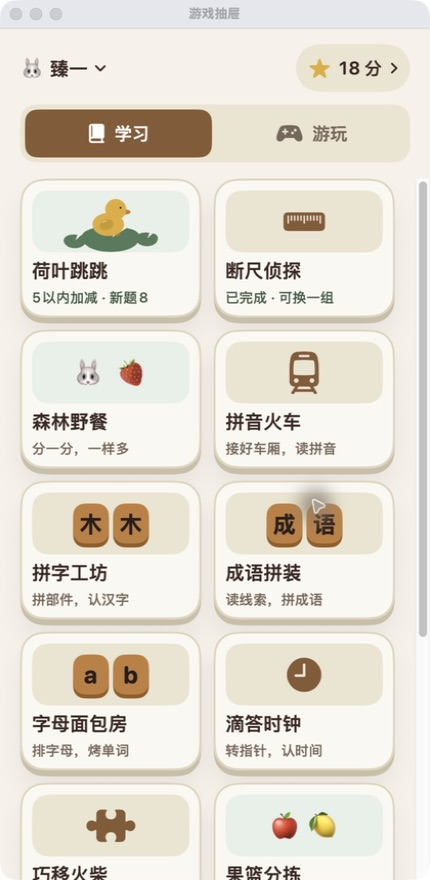
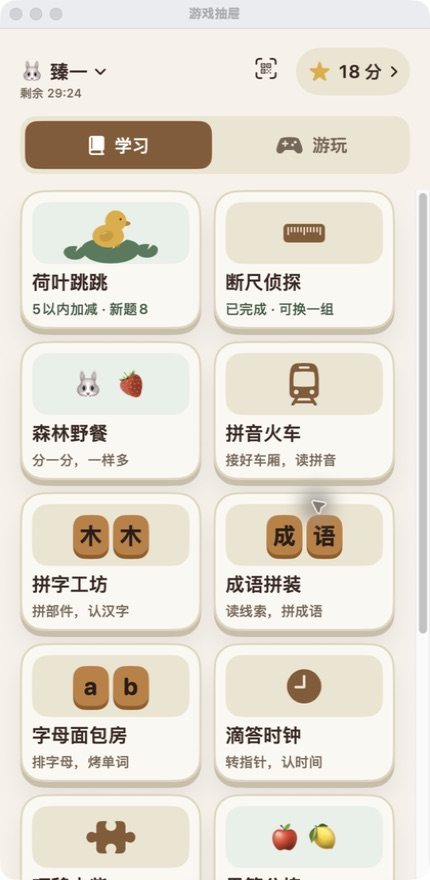
Limit each child to 30 minutes followed by a two-hour rest

diff --git a/ios/LittleLearning/Checks/StoreChecks/UsageStoreChecks.swift b/ios/LittleLearning/Checks/StoreChecks/UsageStoreChecks.swift
@@ -1,0 +1,74 @@
+import Foundation
+
+enum UsageStoreChecks {
+    @MainActor static func run(root: URL) throws {
+        let budget=UsageAllowance.budgetMilliseconds
+        var date=Date(timeIntervalSince1970:1_700_000_000),clock=1000.0
+        func advance(_ seconds: Double) { date=date.addingTimeInterval(seconds);clock += seconds }
+        let file=root.appendingPathComponent("usage.json")
+        let store=UsageStore(fileURL:file,date:{date},uptime:{clock})
+        precondition(store.remaining(.qianyi) == budget && store.remaining(.zhenyi) == budget)
+        store.updateContext(child:nil,active:true)
+        advance(600);store.tick();precondition(store.remaining(.qianyi) == budget) // Picker is free.
+        store.updateContext(child:.qianyi,active:true)
+        advance(599.25);store.tick()
+        store.updateContext(child:.qianyi,active:true) // Repeated view updates do not reset the clock.
+        advance(0.75);store.updateContext(child:.qianyi,active:false)
+        precondition(store.remaining(.qianyi) == budget-600_000)
+        advance(10_800);store.tick() // Background hours do not replenish a partial allowance.
+        precondition(store.remaining(.qianyi) == budget-600_000)
+        let restarted=UsageStore(fileURL:file,date:{date},uptime:{clock})
+        precondition(restarted.remaining(.qianyi) == budget-600_000)
+        restarted.updateContext(child:.qianyi,active:true)
+        advance(1200);restarted.tick()
+        precondition(restarted.isBlocked && restarted.remaining(.qianyi) == 0 && restarted.restLabel(.qianyi) == "2:00:00")
+        let exhausted=try Data(contentsOf:file)
+        // Rest survives closing, switching, relaunch, and the passage of midnight.
+        restarted.updateContext(child:nil,active:true)
+        advance(60);restarted.tick()
+        restarted.updateContext(child:.qianyi,active:true)
+        precondition(restarted.isBlocked && restarted.restLabel(.qianyi) == "1:59:00")
+        restarted.updateContext(child:.zhenyi,active:true)
+        advance(120);restarted.tick()
+        precondition(!restarted.isBlocked && restarted.remaining(.zhenyi) == budget-120_000)
+        restarted.updateContext(child:.zhenyi,active:false)
+        advance(7019)
+        let resting=UsageStore(fileURL:file,date:{date},uptime:{clock})
+        resting.updateContext(child:.qianyi,active:true)
+        precondition(resting.isBlocked && resting.restLabel(.qianyi) == "0:00:01")
+        advance(1);resting.tick()
+        precondition(!resting.isBlocked && resting.remaining(.qianyi) == budget)
+        precondition(resting.remaining(.zhenyi) == budget-120_000)
+        advance(1.25);resting.updateContext(child:nil,active:true)
+        precondition(resting.remaining(.qianyi) == budget-1250)
+        let durable=UsageStore(fileURL:file,date:{date},uptime:{clock})
+        precondition(durable.remaining(.qianyi) == budget-1250)
+        // A blocked UI delays a tick: start rest at exhaustion, not at the late callback.
+        var allowance=UsageAllowance();allowance.consume(budget+5000,endingAt:date)
+        precondition(allowance.restingSeconds(at:date) == 7195 && allowance.isValid)
+        allowance.refresh(at:date.addingTimeInterval(7195));precondition(allowance.remaining(at:date) == budget)
+        // Wall-clock movements never award foreground usage time; consumption uses uptime.
+        resting.updateContext(child:.zhenyi,active:true)
+        date=date.addingTimeInterval(100_000);clock += 2;resting.tick()
+        precondition(resting.remaining(.zhenyi) == budget-122_000)
+        resting.updateContext(child:nil,active:false)
+        // Corrupt files are kept, with no playable allowance granted.
+        let badFile=root.appendingPathComponent("usage-bad.json"),bad=Data("broken".utf8)
+        try bad.write(to:badFile)
+        let invalid=UsageStore(fileURL:badFile,date:{date},uptime:{clock})
+        invalid.updateContext(child:.qianyi,active:true);precondition(invalid.isBlocked && invalid.storageError != nil)
+        let bytes=try Data(contentsOf:badFile);precondition(bytes == bad)
+        var damaged=try JSONSerialization.jsonObject(with:exhausted) as! [String:Any]
+        var children=damaged["children"] as! [String:[String:Any]]
+        children["qianyi"]!["usedMilliseconds"] = -1;damaged["children"]=children
+        let damagedData=try JSONSerialization.data(withJSONObject:damaged);precondition(FamilyUsage.restore(damagedData) == nil)
+        // A write failure blocks use and leaves the original file intact.
+        let backup=root.appendingPathComponent("usage-backup.json")
+        try FileManager.default.moveItem(at:file,to:backup)
+        try FileManager.default.createDirectory(at:file,withIntermediateDirectories:true)
+        durable.updateContext(child:.qianyi,active:true)
+        precondition(durable.isBlocked && durable.storageError != nil)
+        try FileManager.default.removeItem(at:file);try FileManager.default.moveItem(at:backup,to:file)
+        print("PASS: 30-minute per-child total use, exact pause/resume, restart persistence, free picker, two-hour cooldown and automatic reset, independent sibling cycles, delayed ticks, monotonic charging, corrupt-file preservation and failed-save blocking.")
+    }
+}

diff --git a/ios/LittleLearning/Sources/UsageStore.swift b/ios/LittleLearning/Sources/UsageStore.swift
@@ -1,0 +1,90 @@
+import SwiftUI
+#if canImport(LearningCore)
+import LearningCore
+#endif
+
+@MainActor final class UsageStore: ObservableObject {
+    @Published private(set) var book: FamilyUsage
+    @Published private(set) var now: Date
+    @Published private(set) var child: FamilyChild?
+    @Published private(set) var storageError: String?
+    private let file: URL
+    private let date: ()->Date
+    private let uptime: ()->Double
+    private var mark: Double?
+    private var foreground=false
+    private var loadFailed=false
+    private var task: Task<Void,Never>?
+    init(fileURL: URL? = nil,date: @escaping ()->Date = Date.init,uptime: @escaping ()->Double = { ProcessInfo.processInfo.systemUptime }) {
+        self.date=date;self.uptime=uptime;now=date()
+        let base=FileManager.default.urls(for:.applicationSupportDirectory,in:.userDomainMask).first!
+        file=fileURL ?? base.appendingPathComponent("LittleLearning/usage-v1.json")
+        if FileManager.default.fileExists(atPath:file.path) {
+            if let data=try? Data(contentsOf:file),let saved=FamilyUsage.restore(data) { book=saved }
+            else { book = .init();loadFailed=true;storageError="使用时间记录暂时无法读取，已暂停使用。原记录已保留。" }
+        } else { book = .init() }
+    }
+    var isBlocked: Bool { child != nil && (storageError != nil || remaining(child!) == 0) }
+    func remaining(_ child: FamilyChild) -> Int { book.children[child.rawValue]!.remaining(at:now) }
+    func restLabel(_ child: FamilyChild) -> String {
+        let seconds=book.children[child.rawValue]!.restingSeconds(at:now)
+        return String(format:"%d:%02d:%02d",seconds/3600,seconds/60%60,seconds%60)
+    }
+    func remainingLabel(_ child: FamilyChild) -> String {
+        let seconds=(remaining(child)+999)/1000
+        return String(format:"%d:%02d",seconds/60,seconds%60)
+    }
+    var showsWarning: Bool { child.map { remaining($0) > 0 && remaining($0) <= 60_000 } ?? false }
+    /// Called for selection, foreground changes, and leaving for the child picker.
+    func updateContext(child next: FamilyChild?,active: Bool) {
+        if child == next,foreground == active { return }
+        tick(force:true)
+        mark=nil;child=next;foreground=active
+        now=date();refresh()
+        if active,next != nil,!isBlocked {
+            // Check that the file can be written before enabling any game controls.
+            if persist() { mark=uptime() }
+        }
+        task?.cancel();task=nil
+        if active {
+            task=Task { [weak self] in
+                while !Task.isCancelled {
+                    do { try await Task.sleep(nanoseconds:250_000_000) } catch { return }
+                    self?.tick()
+                }
+            }
+        }
+    }
+    func tick(force: Bool = false) {
+        now=date()
+        if let child,let start=mark,foreground,!isBlocked {
+            let current=uptime(),elapsed=max(0,min(Double(Int.max/2),(current-start)*1000))
+            if force || elapsed >= 1000 {
+                let milliseconds=Int(elapsed.rounded(.down))
+                if milliseconds > 0 {
+                    book.children[child.rawValue]!.consume(milliseconds,endingAt:now)
+                    mark=start+Double(milliseconds)/1000
+                    if !persist() { mark=nil }
+                }
+            }
+        }
+        refresh()
+        if isBlocked { mark=nil }
+        else if foreground,child != nil,mark == nil,storageError == nil { mark=uptime() }
+    }
+    private func refresh() {
+        var updated=book
+        for child in FamilyChild.allCases { updated.children[child.rawValue]!.refresh(at:now) }
+        if updated != book { book=updated;_ = persist() }
+    }
+    @discardableResult private func persist() -> Bool {
+        guard !loadFailed else { return false }
+        do {
+            try FileManager.default.createDirectory(at:file.deletingLastPathComponent(),withIntermediateDirectories:true)
+            try JSONEncoder().encode(book).write(to:file,options:.atomic)
+            storageError=nil;return true
+        } catch {
+            storageError="使用时间暂时无法保存，已暂停使用。请保留 App 和原记录。";return false
+        }
+    }
+}

diff --git a/ios/LittleLearning/Sources/RootView.swift b/ios/LittleLearning/Sources/RootView.swift
@@ -6,8 +6,9 @@ import LearningCore
 struct RootView: View {
     @EnvironmentObject private var store: GameStore
     @EnvironmentObject private var collection: CollectionStore
+    @EnvironmentObject private var usage: UsageStore
     @Environment(\.scenePhase) private var scenePhase
-    private var showsDrawer: Bool { collection.loadError == nil && collection.activeChild != nil && !store.showsChildPicker && !store.showsRewards && store.selectedFunGame == nil && store.selectedGame == nil }
+    private var showsDrawer: Bool { !usage.isBlocked && collection.loadError == nil && collection.activeChild != nil && !store.showsChildPicker && !store.showsRewards && store.selectedFunGame == nil && store.selectedGame == nil }
     var body: some View {
         ZStack {
             GameDrawerView()
@@ -18,6 +19,7 @@ struct RootView: View {
             Group {
             if let error=collection.loadError { Text(error).woodText(Wood.Typography.body).padding(24) }
             else if collection.activeChild == nil || store.showsChildPicker { ChildPickerView() }
+            else if usage.isBlocked { UsageLimitView() }
             else if store.showsRewards { RewardsView() }
             else if let game=store.selectedFunGame { FunGameView(game:game,child:collection.activeChild ?? .zhenyi) }
             else if let game = store.selectedGame {
@@ -25,7 +27,7 @@ struct RootView: View {
                 else { CollectionGameView(game:game) }
             } else { Color.clear.allowsHitTesting(false) }
             }
-            .id(collection.activeChild == nil || store.showsChildPicker ? "children" : store.showsRewards ? "rewards" : store.selectedFunGame.map {"fun-\($0.rawValue)"} ?? store.selectedGame?.rawValue ?? "drawer")
+            .id(collection.activeChild == nil || store.showsChildPicker ? "children" : usage.isBlocked ? "usage-lock" : store.showsRewards ? "rewards" : store.selectedFunGame.map {"fun-\($0.rawValue)"} ?? store.selectedGame?.rawValue ?? "drawer")
         }
         .frame(maxWidth: .infinity, maxHeight: .infinity)
         .background(Wood.Palette.canvas.ignoresSafeArea())
@@ -37,8 +39,28 @@ struct RootView: View {
             StudyPickerView(game:game).presentationDetents([.large])
         }
         .sheet(isPresented:$store.showsPointsSync) { PointsSyncView().presentationDetents([.large]) }
+        .safeAreaInset(edge:.top,spacing:0) {
+            if usage.showsWarning && !usage.isBlocked {
+                Text("还剩1分钟，记得休息一下")
+                    .font(.system(size:14,weight:.semibold)).frame(maxWidth:.infinity).padding(8)
+                    .background(Wood.Palette.hintBackground).accessibilityIdentifier("usage.warning")
+            }
+        }
+        .onAppear { updateUsage() }
+        .onChange(of:collection.activeChild) { _,_ in updateUsage() }
+        .onChange(of:store.showsChildPicker) { _,_ in updateUsage() }
+        .onChange(of:usage.isBlocked) { _,blocked in
+            if blocked {
+                store.topicPickerGame=nil;store.showsPointsSync=false
+                collection.pauseFun();collection.stopDelivery();store.stopSpeech();store.save();collection.save()
+            }
+        }
         .onChange(of: scenePhase) { _, phase in
+            updateUsage()
             if phase != .active { collection.pauseFun();collection.stopDelivery();store.save(); collection.save(); store.stopSpeech() }
         }
+    }
+    private func updateUsage() {
+        usage.updateContext(child:store.showsChildPicker ? nil : collection.activeChild,active:scenePhase == .active)
     }
 }

diff --git a/ios/LittleLearning/Sources/GameDrawerView.swift b/ios/LittleLearning/Sources/GameDrawerView.swift
@@ -6,18 +6,25 @@ import LearningCore
 struct GameDrawerView: View {
     @EnvironmentObject private var store: GameStore
     @EnvironmentObject private var collection: CollectionStore
+    @EnvironmentObject private var usage: UsageStore
     var body: some View {
         GeometryReader { geometry in
             VStack(spacing:Wood.Spacing.md) {
                 VStack(spacing:12) {
                     HStack(alignment:.firstTextBaseline) {
                         Button { store.showChildPicker() } label: {
-                            HStack(spacing:5) {
-                                Text(collection.activeChild?.avatar ?? "🐰")
-                                Text(collection.activeChild?.name ?? "选人")
-                                Image(systemName:"chevron.down").font(.system(size:12,weight:.bold))
-                            }.font(.system(size:20,weight:.semibold)).lineLimit(1).frame(minHeight:48)
-                        }.buttonStyle(IllustrationButtonStyle()).accessibilityLabel("当前是\(collection.activeChild?.name ?? "未选择")，点击切换孩子").accessibilityIdentifier("drawer.child")
+                            VStack(alignment:.leading,spacing:2) {
+                                HStack(spacing:5) {
+                                    Text(collection.activeChild?.avatar ?? "🐰")
+                                    Text(collection.activeChild?.name ?? "选人")
+                                    Image(systemName:"chevron.down").font(.system(size:12,weight:.bold))
+                                }.font(.system(size:20,weight:.semibold)).lineLimit(1)
+                                if let child=collection.activeChild {
+                                    Text("剩余 \(usage.remainingLabel(child))")
+                                        .font(.system(size:12,weight:.medium)).monospacedDigit().foregroundStyle(Wood.Palette.textSecondary)
+                                }
+                            }.frame(minHeight:48)
+                        }.buttonStyle(IllustrationButtonStyle()).accessibilityLabel("当前是\(collection.activeChild?.name ?? "未选择")，剩余\(collection.activeChild.map { usage.remainingLabel($0) } ?? "30:00")，点击切换孩子").accessibilityIdentifier("drawer.child")
                         Spacer()
                         Button { store.save();store.showsPointsSync=true } label: {
                             Image(systemName:"qrcode.viewfinder").font(.system(size:22)).frame(width:44,height:48)

diff --git a/ios/LittleLearning/Core/UsageAllowance.swift b/ios/LittleLearning/Core/UsageAllowance.swift
@@ -1,0 +1,48 @@
+import Foundation
+
+/// A local use/rest cycle, shared by every screen after choosing a child.
+public struct UsageAllowance: Codable, Equatable, Sendable {
+    public static let budgetMilliseconds=30*60*1000
+    public static let restSeconds: TimeInterval=2*60*60
+    public private(set) var usedMilliseconds=0
+    public private(set) var restUntil: Date?
+    public init() {}
+    public var isValid: Bool {
+        (0...Self.budgetMilliseconds).contains(usedMilliseconds) &&
+        (restUntil == nil ? usedMilliseconds < Self.budgetMilliseconds : usedMilliseconds == Self.budgetMilliseconds && restUntil!.timeIntervalSince1970.isFinite)
+    }
+    public mutating func refresh(at now: Date) {
+        if let restUntil,now >= restUntil { self = .init() }
+    }
+    public func remaining(at now: Date) -> Int {
+        if let restUntil { return now >= restUntil ? Self.budgetMilliseconds : 0 }
+        return Self.budgetMilliseconds-usedMilliseconds
+    }
+    public func restingSeconds(at now: Date) -> Int {
+        guard let restUntil else { return 0 }
+        return Int(min(Self.restSeconds,max(0,ceil(restUntil.timeIntervalSince(now)))))
+    }
+    public mutating func consume(_ milliseconds: Int,endingAt now: Date) {
+        guard milliseconds > 0,restUntil == nil else { return }
+        let available=Self.budgetMilliseconds-usedMilliseconds
+        let consumed=min(milliseconds,available)
+        usedMilliseconds += consumed
+        if usedMilliseconds == Self.budgetMilliseconds {
+            // If the UI was busy, rest starts at the instant the allowance ran out.
+            restUntil=now.addingTimeInterval(Self.restSeconds-Double(milliseconds-consumed)/1000)
+        }
+    }
+}
+
+public struct FamilyUsage: Codable, Equatable, Sendable {
+    public var version=1
+    public var children=Dictionary(uniqueKeysWithValues:FamilyChild.allCases.map { ($0.rawValue,UsageAllowance()) })
+    public init() {}
+    public var isValid: Bool {
+        version == 1 && Set(children.keys) == Set(FamilyChild.allCases.map(\.rawValue)) && children.values.allSatisfy(\.isValid)
+    }
+    public static func restore(_ data: Data) -> Self? {
+        guard let value=try? JSONDecoder().decode(Self.self,from:data),value.isValid else { return nil }
+        return value
+    }
+}

diff --git a/ios/LittleLearning/Sources/UsageLimitView.swift b/ios/LittleLearning/Sources/UsageLimitView.swift
@@ -1,0 +1,33 @@
+import SwiftUI
+#if canImport(LearningCore)
+import LearningCore
+#endif
+
+struct UsageLimitView: View {
+    @EnvironmentObject private var usage: UsageStore
+    @EnvironmentObject private var store: GameStore
+    @EnvironmentObject private var collection: CollectionStore
+    var body: some View {
+        VStack(spacing:24) {
+            Spacer(minLength:16)
+            Text(collection.activeChild?.avatar ?? "🌙").font(.system(size:64))
+            Text(usage.storageError == nil ? "该休息一下啦" : "暂时休息一下")
+                .woodText(Wood.Typography.heading)
+            if let error=usage.storageError {
+                Text(error).woodText(Wood.Typography.body).multilineTextAlignment(.center)
+            } else if let child=collection.activeChild {
+                Text("\(child.name)，这次已经用了30分钟")
+                    .woodText(Wood.Typography.body).multilineTextAlignment(.center)
+                Text(usage.restLabel(child)).font(.system(size:42,weight:.semibold,design:.rounded))
+                    .monospacedDigit().accessibilityLabel("休息剩余\(usage.restLabel(child))")
+                    .accessibilityIdentifier("usage.countdown")
+                Text("休息2小时后，自动恢复30分钟\n进度已保留，下次接着玩")
+                    .woodText(Wood.Typography.support).multilineTextAlignment(.center)
+            }
+            Button("返回选人") { store.showChildPicker() }
+                .buttonStyle(SecondaryWoodStyle()).frame(maxWidth:260).accessibilityIdentifier("usage.children")
+            Spacer(minLength:16)
+        }.padding(24).frame(maxWidth:.infinity,maxHeight:.infinity)
+            .background(Wood.Palette.canvas.ignoresSafeArea())
+    }
+}

diff --git a/ios/LittleLearning/Sources/ChildPickerView.swift b/ios/LittleLearning/Sources/ChildPickerView.swift
@@ -6,6 +6,7 @@ import LearningCore
 struct ChildPickerView: View {
     @EnvironmentObject private var store: GameStore
     @EnvironmentObject private var collection: CollectionStore
+    @EnvironmentObject private var usage: UsageStore
     var body: some View {
         VStack(spacing:24) {
             Spacer(minLength:16)
@@ -19,6 +20,9 @@ struct ChildPickerView: View {
                             VStack(spacing:16) {
                                 Text(child.avatar).font(.system(size:56))
                                 Text(child.name).woodText(Wood.Typography.heading)
+                                Text(usage.remaining(child) == 0 ? "休息 \(usage.restLabel(child))" : "可用 \(usage.remainingLabel(child))")
+                                    .font(.system(size:14,weight:.medium)).monospacedDigit().lineLimit(1).minimumScaleFactor(0.8)
+                                    .foregroundStyle(Wood.Palette.textSecondary)
                             }.frame(maxWidth:.infinity).padding(.vertical,16)
                         }
                     }.buttonStyle(IllustrationButtonStyle())

diff --git a/ios/LittleLearning/Sources/LittleLearningApp.swift b/ios/LittleLearning/Sources/LittleLearningApp.swift
@@ -4,6 +4,7 @@ import SwiftUI
 struct LittleLearningApp: App {
     @StateObject private var store: GameStore
     @StateObject private var collection: CollectionStore
+    @StateObject private var usage=UsageStore()
     init() {
         let library=CollectionStore(profilesEnabled:true)
         _collection=StateObject(wrappedValue:library)
@@ -14,6 +15,7 @@ struct LittleLearningApp: App {
             RootView()
                 .environmentObject(store)
                 .environmentObject(collection)
+                .environmentObject(usage)
                 .preferredColorScheme(.light)
                 .environment(\.locale, Locale(identifier: "zh_Hans_CN"))
                 #if os(macOS)

diff --git a/ios/LittleLearning/Checks/StoreChecks/StoreChecks.swift b/ios/LittleLearning/Checks/StoreChecks/StoreChecks.swift
@@ -73,6 +73,7 @@ import Foundation
         try RulerStoreChecks.run(root:root,defaults:defaults)
         try ChildStoreChecks.run(root:root,defaults:defaults)
         try PointsSyncStoreChecks.run(root:root,defaults:defaults)
+        try UsageStoreChecks.run(root:root)
         print("PASS: actual store atomic awards, restart/replay protection, redemption/refund durability, failed-write rollback, corrupt-file preservation and legacy import.")
     }
 }

diff --git a/README.md b/README.md
@@ -32,6 +32,12 @@
 
 题组按已掌握的知识选择，不强制绑定年级。游戏内可以随时切组，完成后可继续复习；结果与下一题按钮固定在底部。
 
+## 使用30分钟，休息2小时（2.4）
+
+千一、臻一分别计时，学习和游玩共用30分钟；选人页、后台、锁屏暂停。用完保存进度并强制休息2小时，到时自动恢复30分钟。抽屉显示剩余时间，最后1分钟提醒；没有加时、解锁或家长设置入口。每台手机独立计时，二维码积分同步不会重置额度。
+
+<p align="center"><img src="docs/screenshots/rest.jpg" width="240" alt="用完30分钟后的两小时强制休息页" /></p>
+
 ## 面对面同步（2.3）
 
 抽屉顶部点二维码图标：A显示二维码 → B扫码并确认合并 → A再扫描B的回传二维码。两人的首次得分、兑换、撤销和游戏时间购买支出会合并，重复扫描不重复加分或扣分。记录多时自动轮播二维码，保持相机对准即可，无需联网。
